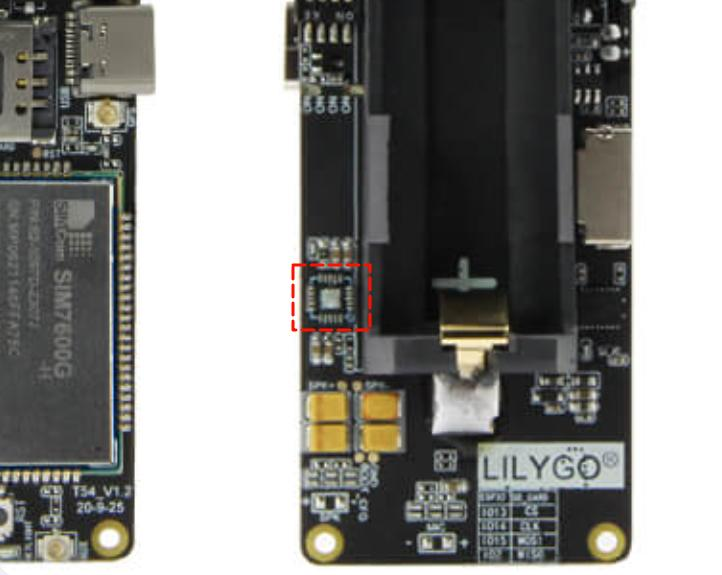
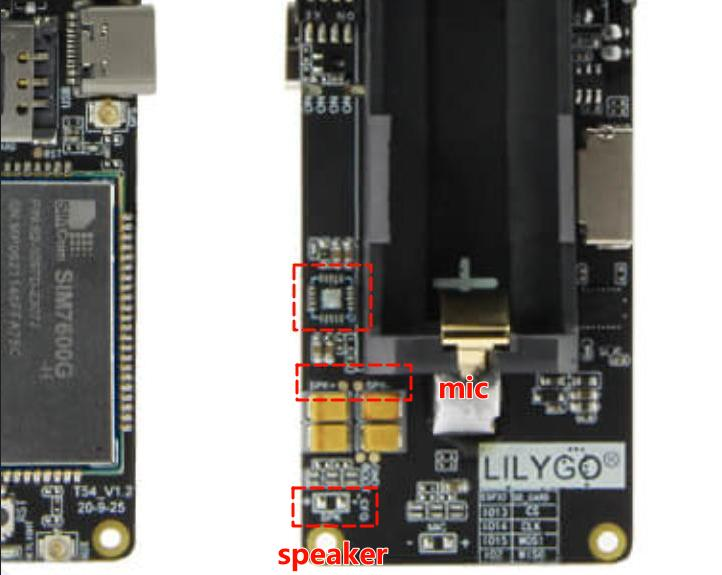
Update README

diff --git a/README.MD b/README.MD
@@ -32,7 +32,7 @@
 
 9. If you need to make a voice call, you need to buy a SIM7600G with an audio decoder. You can check the red box in the figure below. If there is no chip here, there is no decoder version and the voice call function cannot be used.
 
-    1. The figure below shows a version without a decoder
+    1. The figure below shows a version without a decoder. If there is a chip here, you can solder the microphone to the MIC+ and MIC- pads and the speaker to the SPK pad.
     ![decoder](./image/decoder.jpg)
 
 
